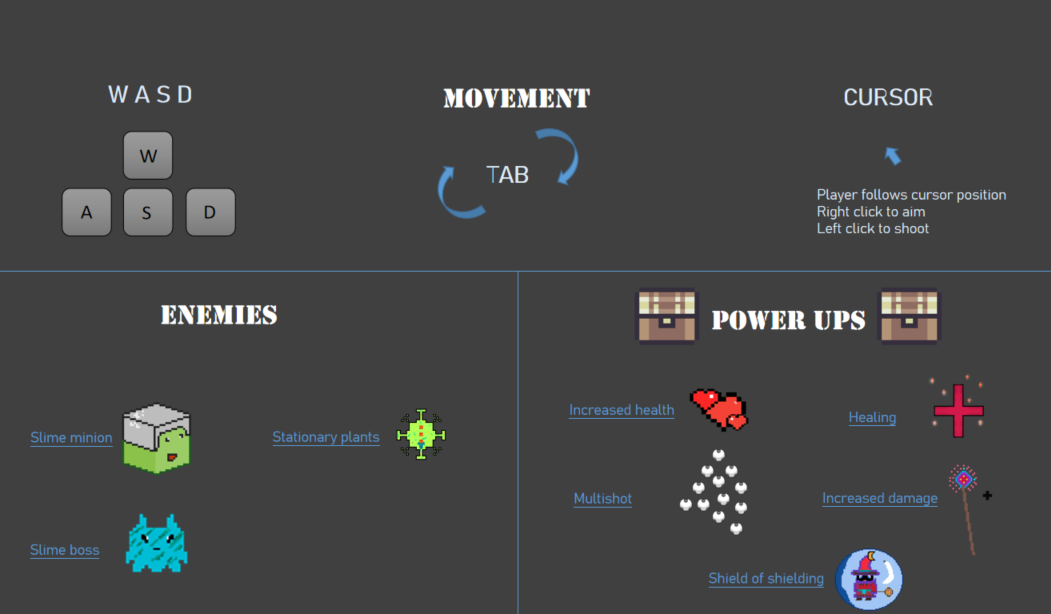
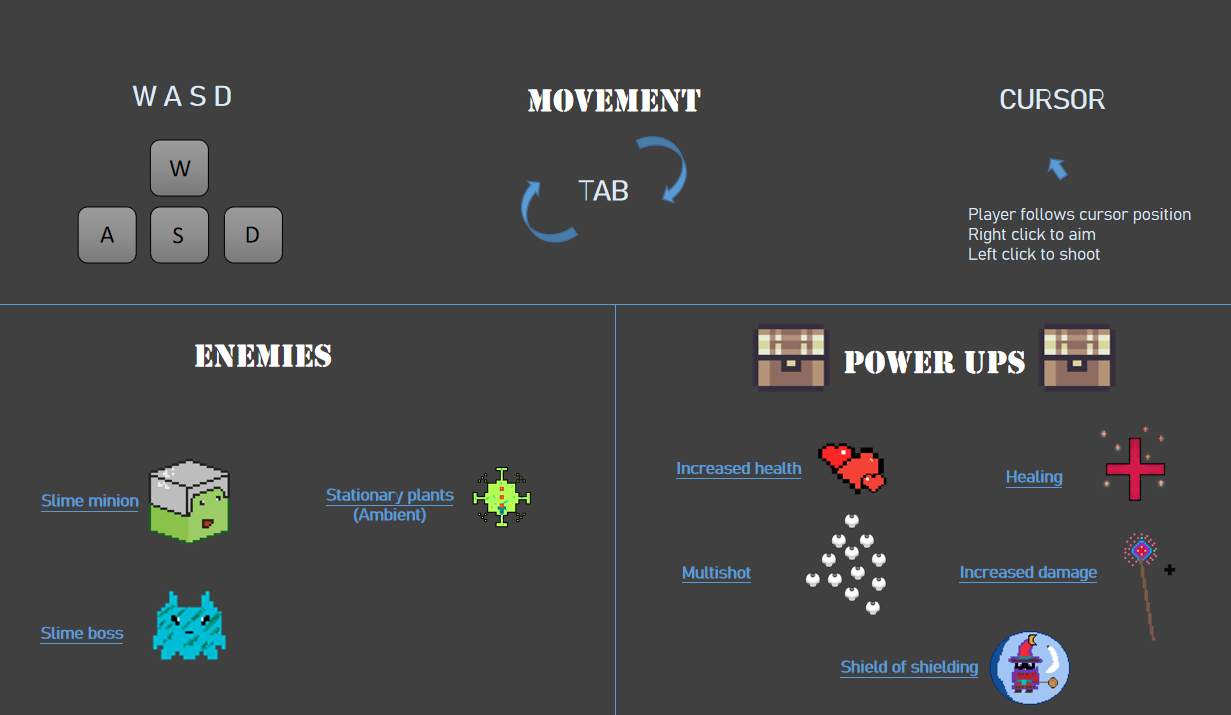
added the warning overlay and tweaked tutorial page

diff --git a/project/credits.c b/project/credits.c
@@ -36,8 +36,8 @@ void credits_update(void) {
 	CP_Settings_Fill(color_white);
 	CP_Settings_TextSize(25.0f);
 	CP_Font_DrawText("  President: Claude Comair", 100.0f, 80.0f);
-	CP_Font_DrawText("Instructors: Chen Ding Xiang - role", 100.0f, 150.0f);
-	CP_Font_DrawText("                       Gerald Wong - role", 100.0f, 200.0f);
+	CP_Font_DrawText("Instructors: Chen Ding Xiang - Professor", 100.0f, 150.0f);
+	CP_Font_DrawText("                       Gerald Wong - Professor", 100.0f, 200.0f);
 
 	CP_Settings_TextSize(30.0f);
 	CP_Settings_Fill(color_buttons);
@@ -53,10 +53,10 @@ void credits_update(void) {
 
 
 	CP_Settings_TextSize(15.0f);
-	CP_Font_DrawText(" lead developer in enemy implementation, spawn, and implementation", 800.0f, 570.0f);
-	CP_Font_DrawText(" centered on the graphics implementation, enemy application", 800.0f, 470.0f);
-	CP_Font_DrawText("aimed at character skills, and bug fixes", 800.0f, 370.0f);
-	CP_Font_DrawText("spearheaded character - enemy and character - ambient implementation", 800.0f, 270.0f);
+	CP_Font_DrawText(" Lead developer in enemy implementation, spawn, and enemy implementation.", 800.0f, 570.0f);
+	CP_Font_DrawText(" Centered on the graphics implementation, enemy application.", 800.0f, 470.0f);
+	CP_Font_DrawText(" Aimed at character skills, and bug fixes.", 800.0f, 370.0f);
+	CP_Font_DrawText(" Spearheaded character to enemy, and character to ambient interaction.", 800.0f, 270.0f);
 
 	CP_Image_Draw(elton, 750.0f, 250.0f, 70.0f, 70.0f, 255);
 	CP_Image_Draw(hadi, 750.0f, 350.0f, 70.0f, 70.0f, 255);

diff --git a/project/character.c b/project/character.c
@@ -172,7 +172,7 @@ void c_renderPlayer(CP_Image mage, CP_Image energyshield)
 	CP_Image_Draw(mage, player.positionX, player.positionY, 56, 56, 255);
 }
 
-void c_renderHUD(void)
+void c_renderHUD(CP_Image warning)
 {
 	if (player.shield == 1)
 	{
@@ -213,8 +213,14 @@ void c_renderHUD(void)
 	//To implement danger health low sign use the values given
 	if (player.health <= 3)
 	{
-		CP_Graphics_DrawRect(250.f, 620.0f, Linear(min_size, max_size, timerStart / duration), 
-		Linear(min_size, max_size, timerStart / duration));
+		//CP_Graphics_DrawRect(250.f, 620.0f, Linear(min_size, max_size, timerStart / duration), 
+		//Linear(min_size, max_size, timerStart / duration));
+		CP_Image_Draw(warning, 260.0f, 660.0f, Linear(min_size+80.0f, max_size+80.0f, timerStart / duration),
+			Linear(min_size+80.0f, max_size+80.0f, timerStart / duration), 255);
+
+
+		//CP_Image_Draw(warning, 250.0f, 660.0f, Linear(85.0f, 100.0f, timerStart / duration),
+		//	Linear(85.0f, 100.0f, timerStart / duration), 255);
 	}
 
 	snprintf(gold, 4, "%d", player.gold);

diff --git a/project/game.c b/project/game.c
@@ -11,6 +11,7 @@ CP_Image Mage = NULL;
 CP_Image energyshield = NULL;
 CP_Image projectileZ = NULL;
 CP_Image chestZ = NULL;
+CP_Image warning = NULL;
 
 
 CP_Sound gameplay_music = NULL;
@@ -38,7 +39,7 @@ void render(void)
 {
 	CP_Image_Draw(background, 640.0f, 365.0f, 1280.0f, 735.0f, 255);
 	c_renderPlayer(Mage, energyshield);
-	c_renderHUD();
+	c_renderHUD(warning);
 	DrawProjectile(projectileZ);
 	timer(begin);
 	enemy_draw(player.positionX, player.positionY, genericenemy, boss);
@@ -107,6 +108,7 @@ void game_init(void)
 	energyshield = CP_Image_Load("./images/magebubble.png");
 	projectileZ = CP_Image_Load("./images/projectile.png");
 	chestZ = CP_Image_Load("./images/chest.png");
+	warning = CP_Image_Load("./images/warning.png");
 
 	//sounds
 	gameplay_music = CP_Sound_LoadMusic("./Sounds/gameplay.wav");
@@ -165,6 +167,7 @@ void game_exit(void)
 	CP_Image_Free(&energyshield);
 	CP_Image_Free(&projectileZ);
 	CP_Image_Free(&chestZ);
+	CP_Image_Free(&warning);
 	CP_Sound_Free(&gameplay_music);
 
 	

diff --git a/project/character.h b/project/character.h
@@ -27,5 +27,5 @@ void c_CharacterInit(void);
 
 void playerCollide(float objPositionX, float objPositionY);
 
-void c_renderHUD(void);
+void c_renderHUD(CP_Image warning);
 
